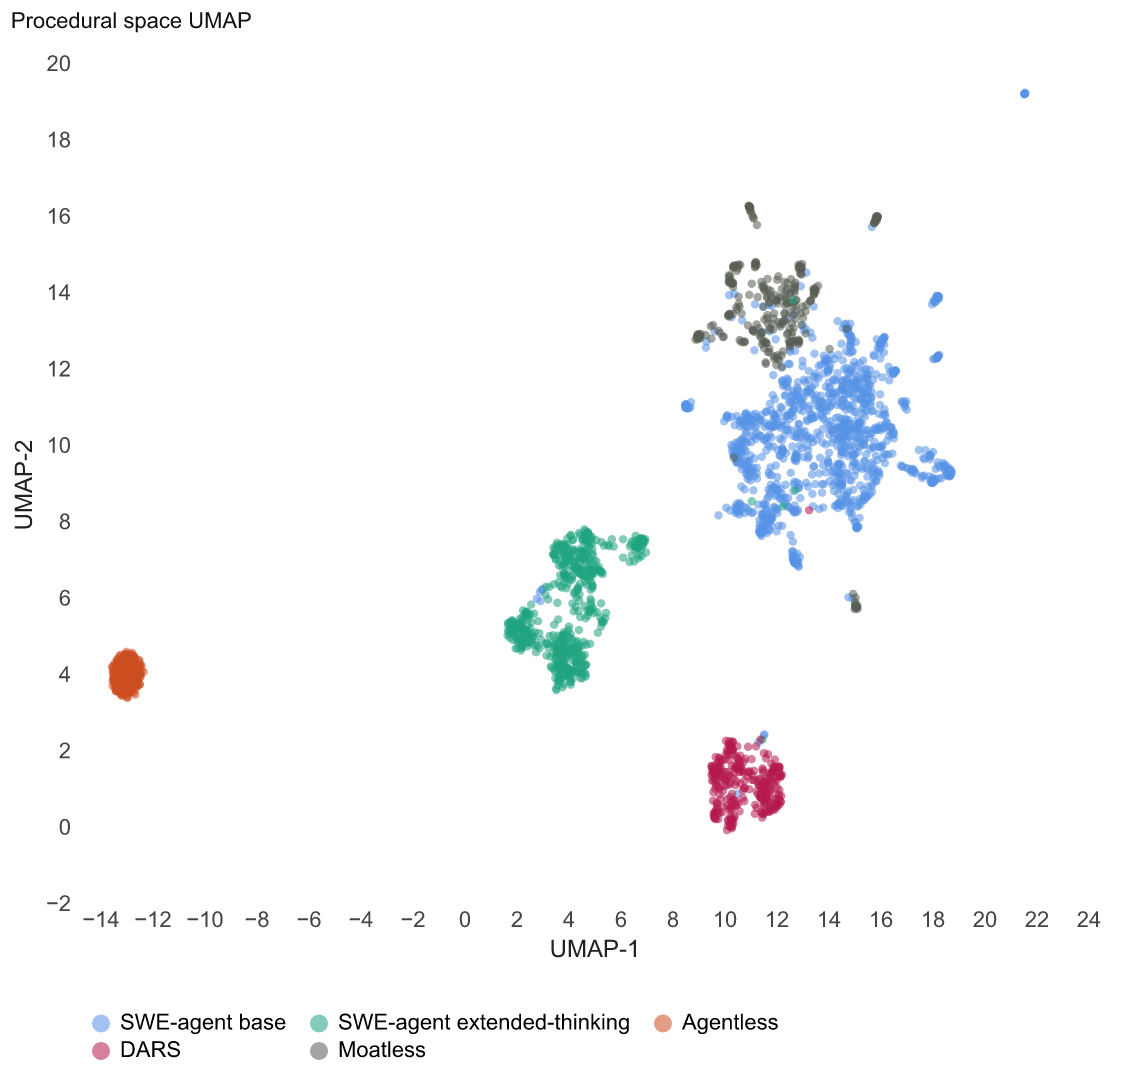
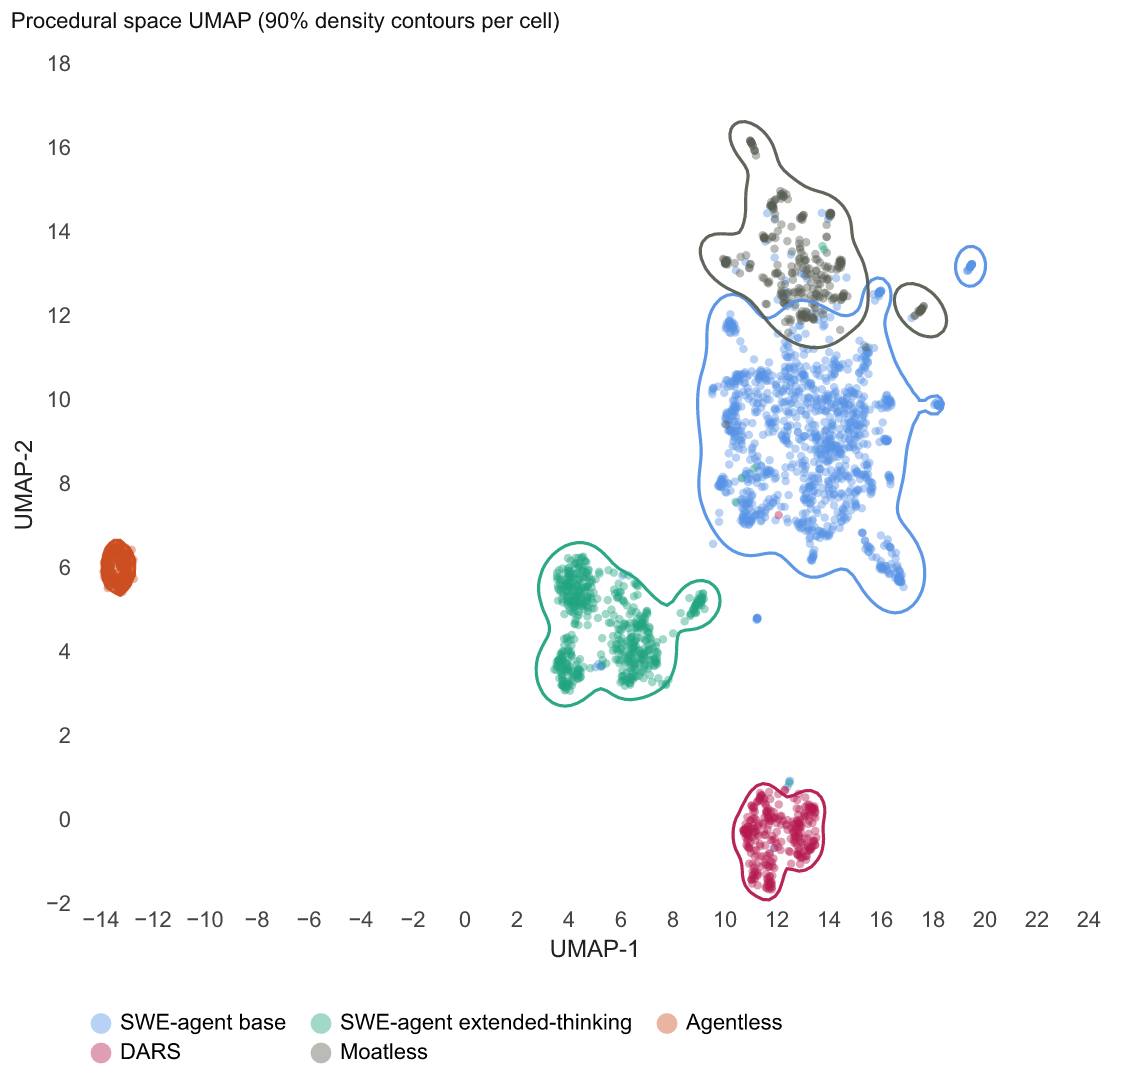
docs: add 90% density contours per cell to UMAP figure
Regenerated procedural_space_umap.png with each cell's 90% density
contour overlaid on the trajectory scatter. The contour converts the
caption's "adjacent but distinct" claim from assertion into visible
evidence, and surfaces an honest finding the dots-only view hid: in
the 2D UMAP projection (not in the 199-dim motif space) SWE-agent
base and Moatless overlap at the top. JSD between those cells in the
original space is large; the overlap is a projection artifact worth
naming.

Caption updated accordingly.

diff --git a/docs/index.html b/docs/index.html
@@ -215,13 +215,16 @@ Same code path, ~2,639 trajectories instead of six.
 </figure>
 
 <figure>
-  <img src="assets/img/procedural_space_umap.png" alt="UMAP projection of all 2,639 per-trajectory fingerprints, colored by paradigm-by-scaffold cell.">
+  <img src="assets/img/procedural_space_umap.png" alt="UMAP projection of all 2,639 per-trajectory fingerprints, colored by paradigm-by-scaffold cell, with 90% density contours per cell.">
   <figcaption>
-    Per-trajectory UMAP over the full corpus, colored by cell. Five
-    cells emerge as separated clusters; the SWE-agent base and
-    extended-thinking cells sit adjacent but visibly distinct in
-    the central region. Hyperparameters: n_neighbors=15, min_dist=0.25,
-    metric=cosine, seed=0.
+    Per-trajectory UMAP over the full corpus, colored by cell, with
+    each cell's 90% density contour overlaid. Agentless, DARS, and
+    SWE-agent extended-thinking form clearly disjoint clusters at this
+    level. SWE-agent base and Moatless overlap at the top of the
+    projection: a 2D-projection adjacency that the dots-only view
+    would have hidden, even though the two cells are JSD-distinct
+    in the original 199-dim motif space. Hyperparameters:
+    n_neighbors=15, min_dist=0.25, metric=cosine, seed=0.
   </figcaption>
 </figure>
 
